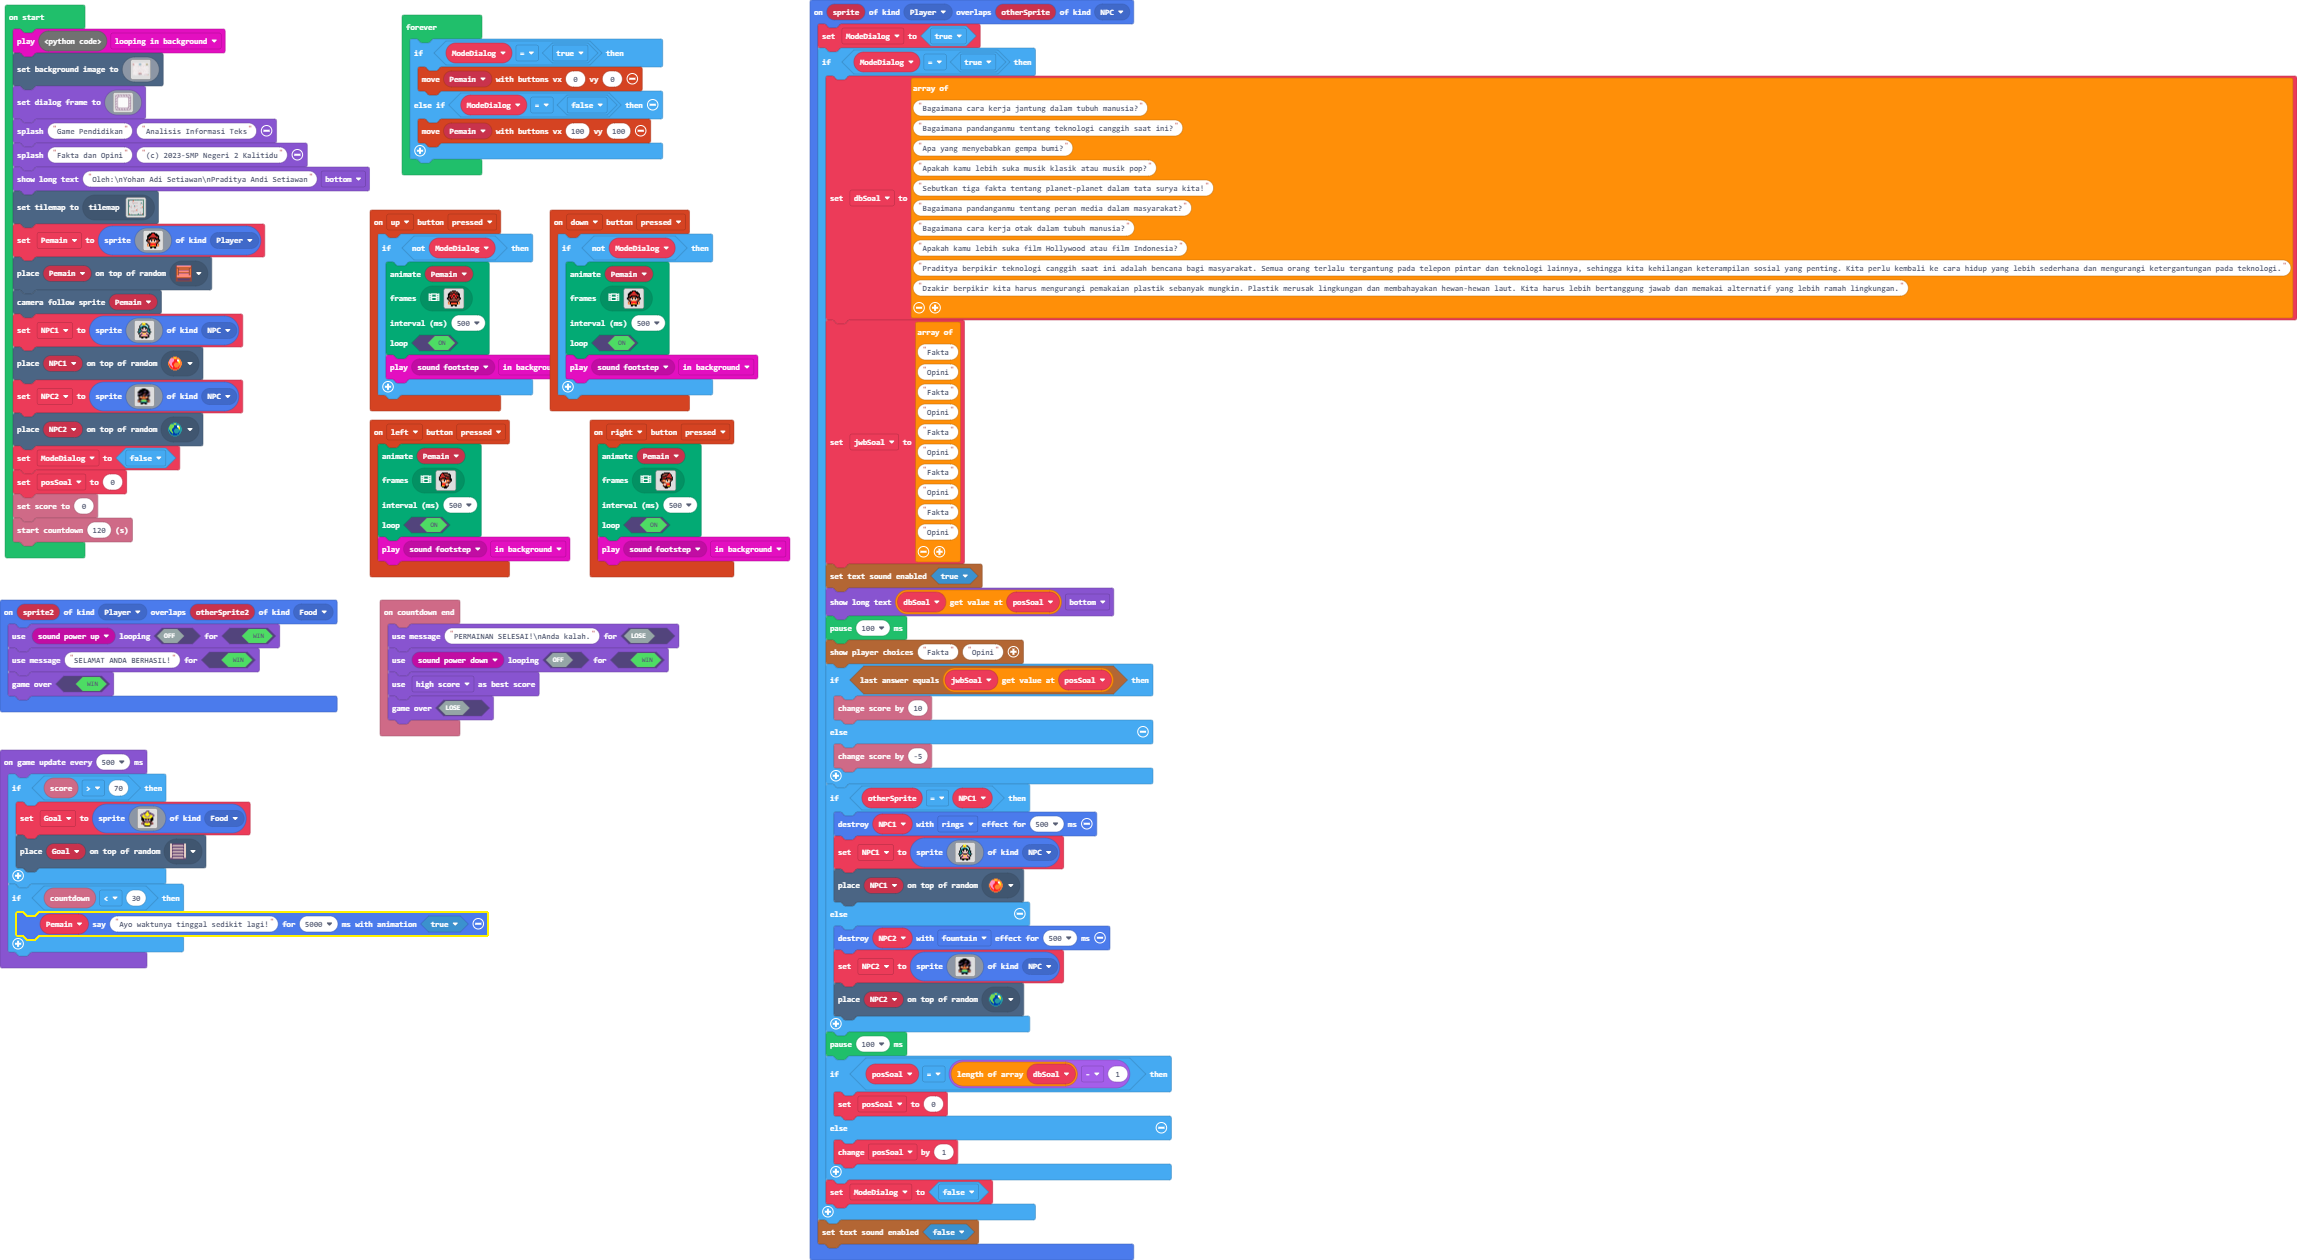
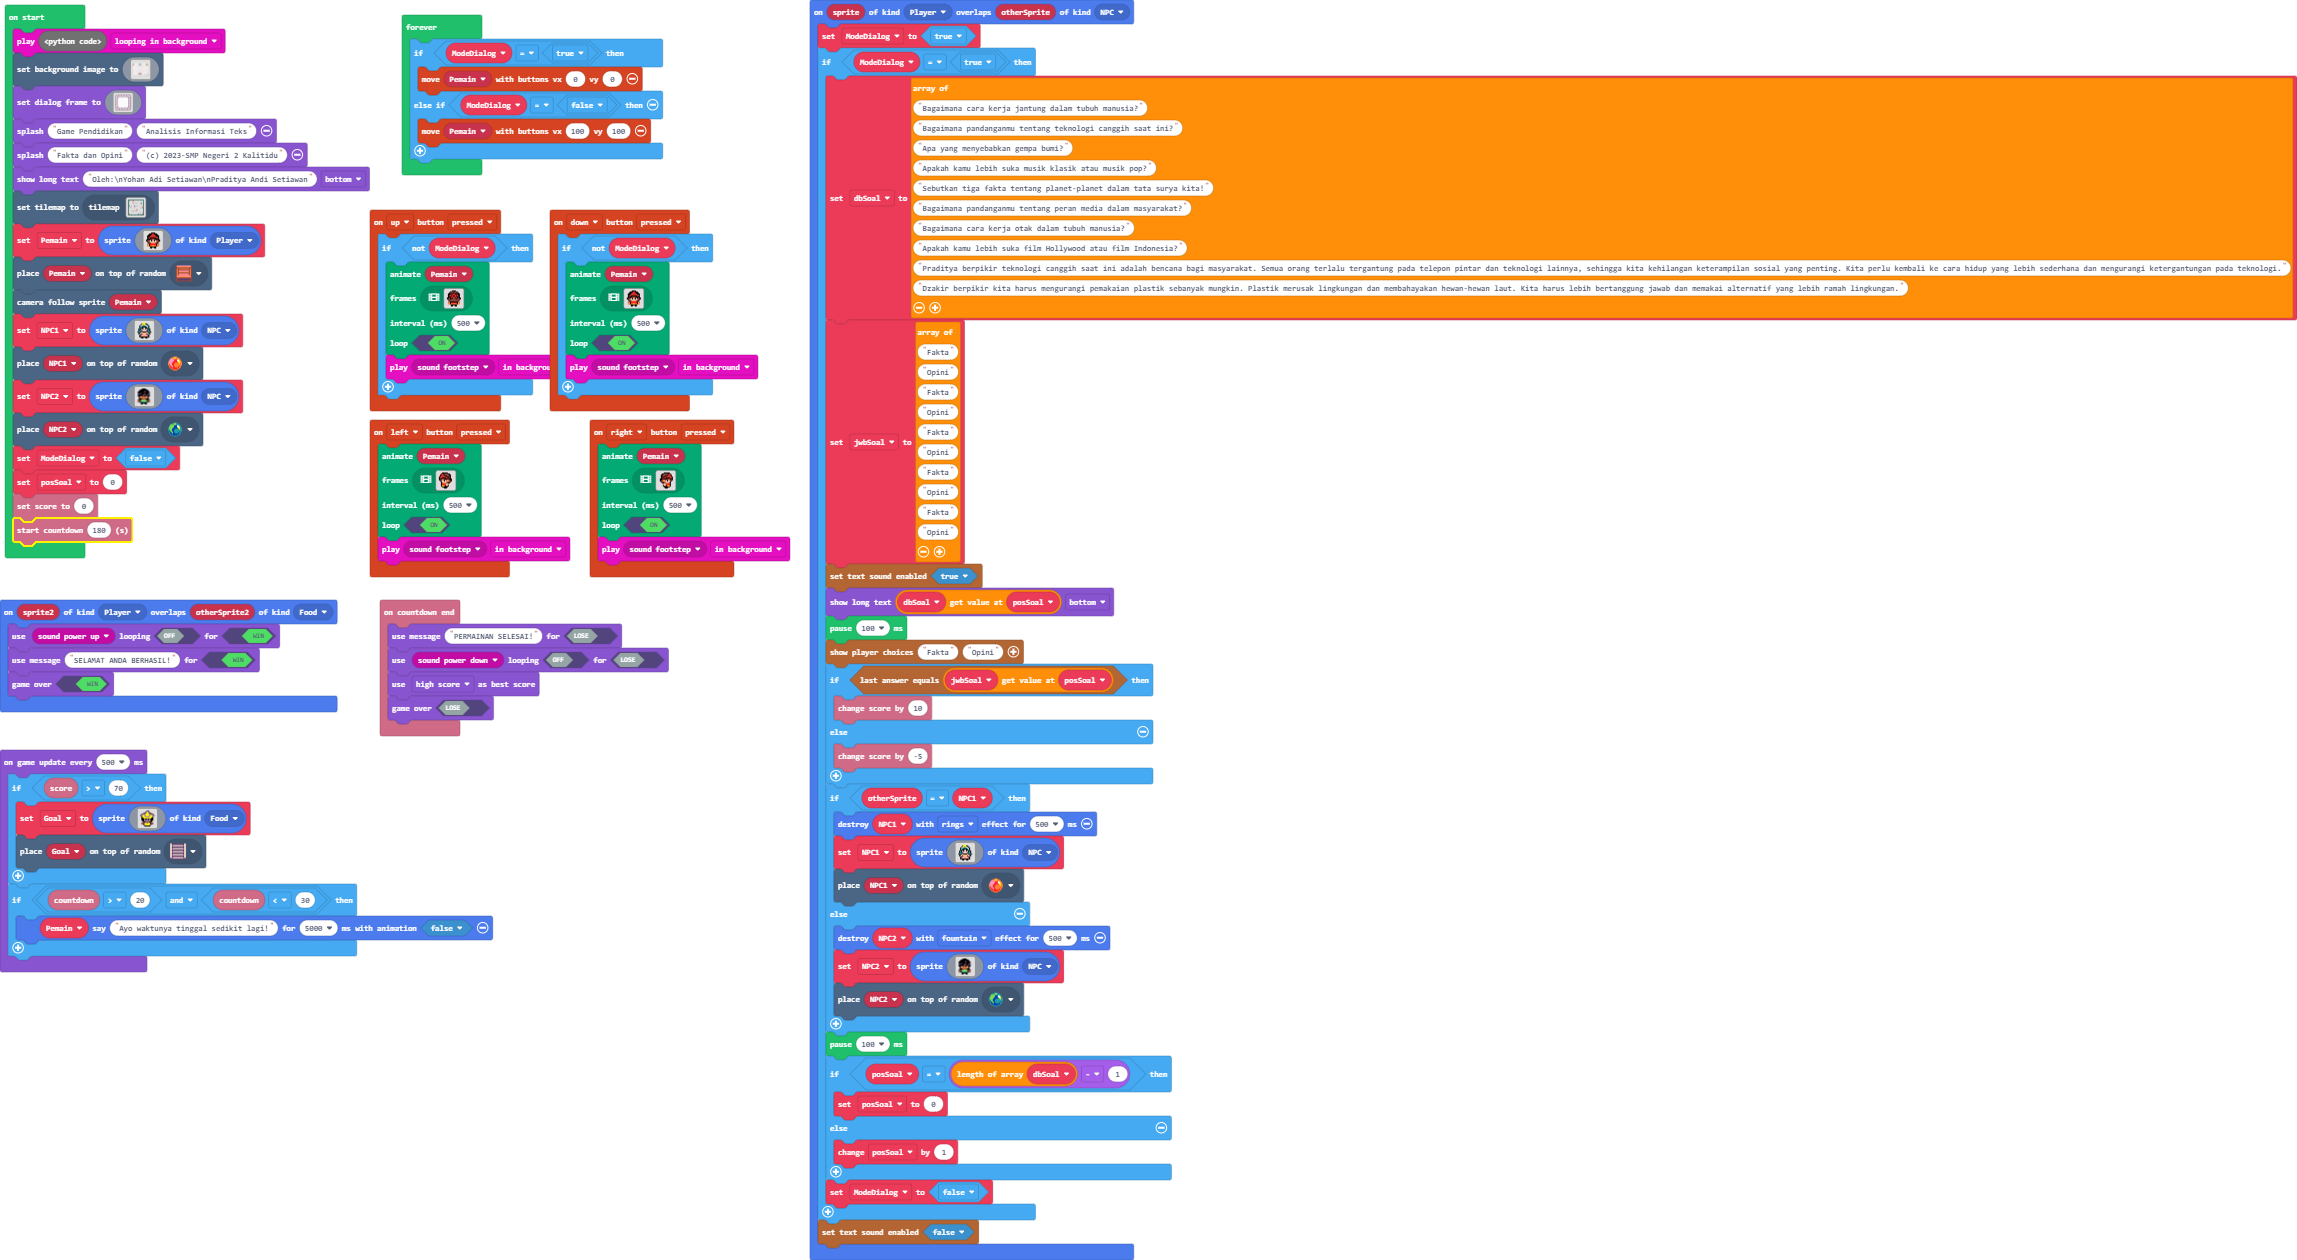
Reminder timer

Changed region(s): [[0.0, 0.681, 0.2164, 0.7738], [0.2164, 0.4952, 0.3091, 0.5262], [0.0, 0.4024, 0.0618, 0.4333]]

diff --git a/main.ts b/main.ts
@@ -77,8 +77,8 @@ controller.left.onEvent(ControllerButtonEvent.Pressed, function () {
     music.play(music.melodyPlayable(music.footstep), music.PlaybackMode.InBackground)
 })
 info.onCountdownEnd(function () {
-    game.setGameOverMessage(false, "PERMAINAN SELESAI!\\nAnda kalah.")
-    game.setGameOverPlayable(true, music.melodyPlayable(music.powerDown), false)
+    game.setGameOverMessage(false, "PERMAINAN SELESAI!")
+    game.setGameOverPlayable(false, music.melodyPlayable(music.powerDown), false)
     game.setGameOverScoringType(game.ScoringType.HighScore)
     game.gameOver(false)
 })
@@ -134,7 +134,7 @@ tiles.placeOnRandomTile(NPC2, sprites.dungeon.collectibleBlueCrystal)
 ModeDialog = false
 posSoal = 0
 info.setScore(0)
-info.startCountdown(120)
+info.startCountdown(180)
 forever(function () {
     if (ModeDialog == true) {
         controller.moveSprite(Pemain, 0, 0)
@@ -147,7 +147,7 @@ game.onUpdateInterval(500, function () {
         Goal = sprites.create(assets.image`FinalNPC`, SpriteKind.Food)
         tiles.placeOnRandomTile(Goal, sprites.dungeon.stairNorth)
     }
-    if (info.countdown() < 30) {
-        Pemain.sayText("Ayo waktunya tinggal sedikit lagi!", 5000, true)
+    if (info.countdown() > 20 && info.countdown() < 30) {
+        Pemain.sayText("Ayo waktunya tinggal sedikit lagi!", 5000, false)
     }
 })
